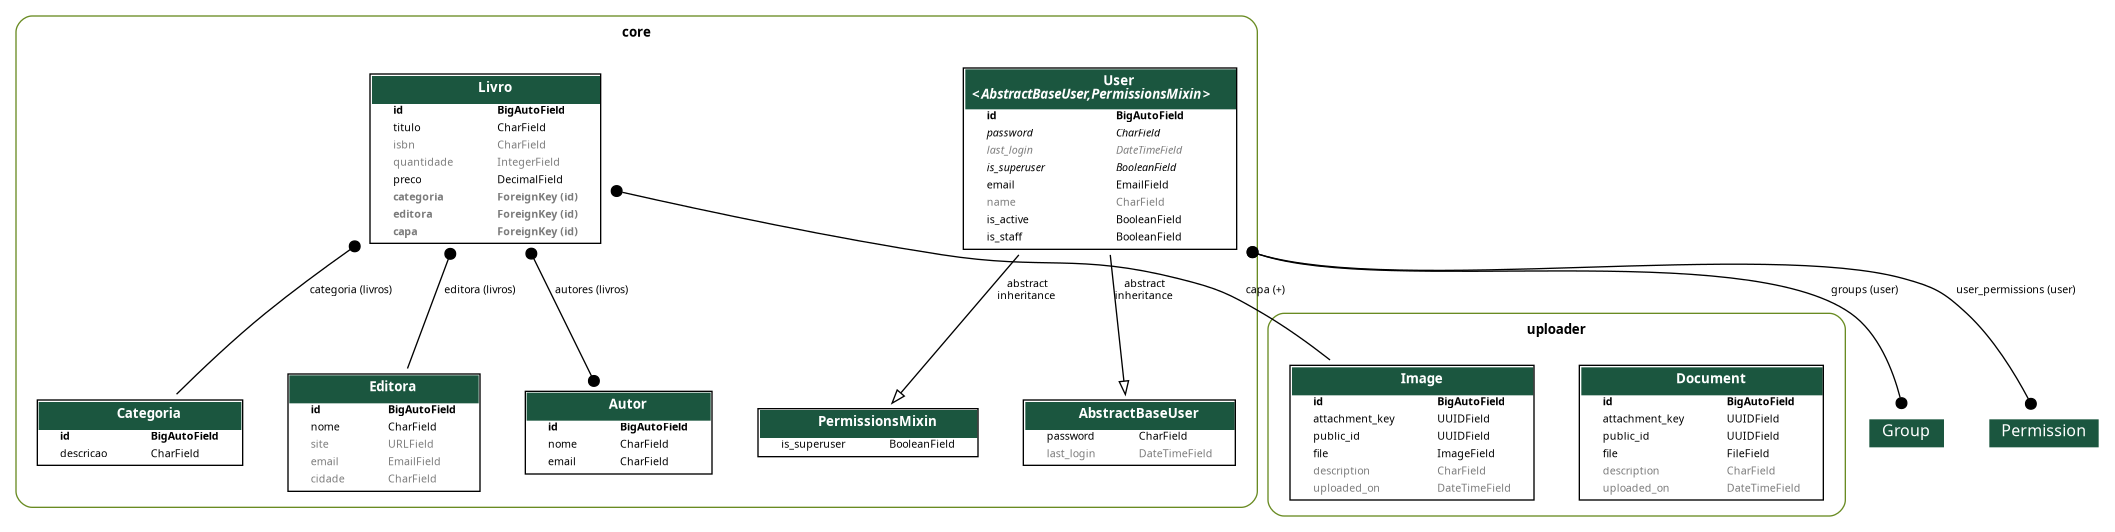
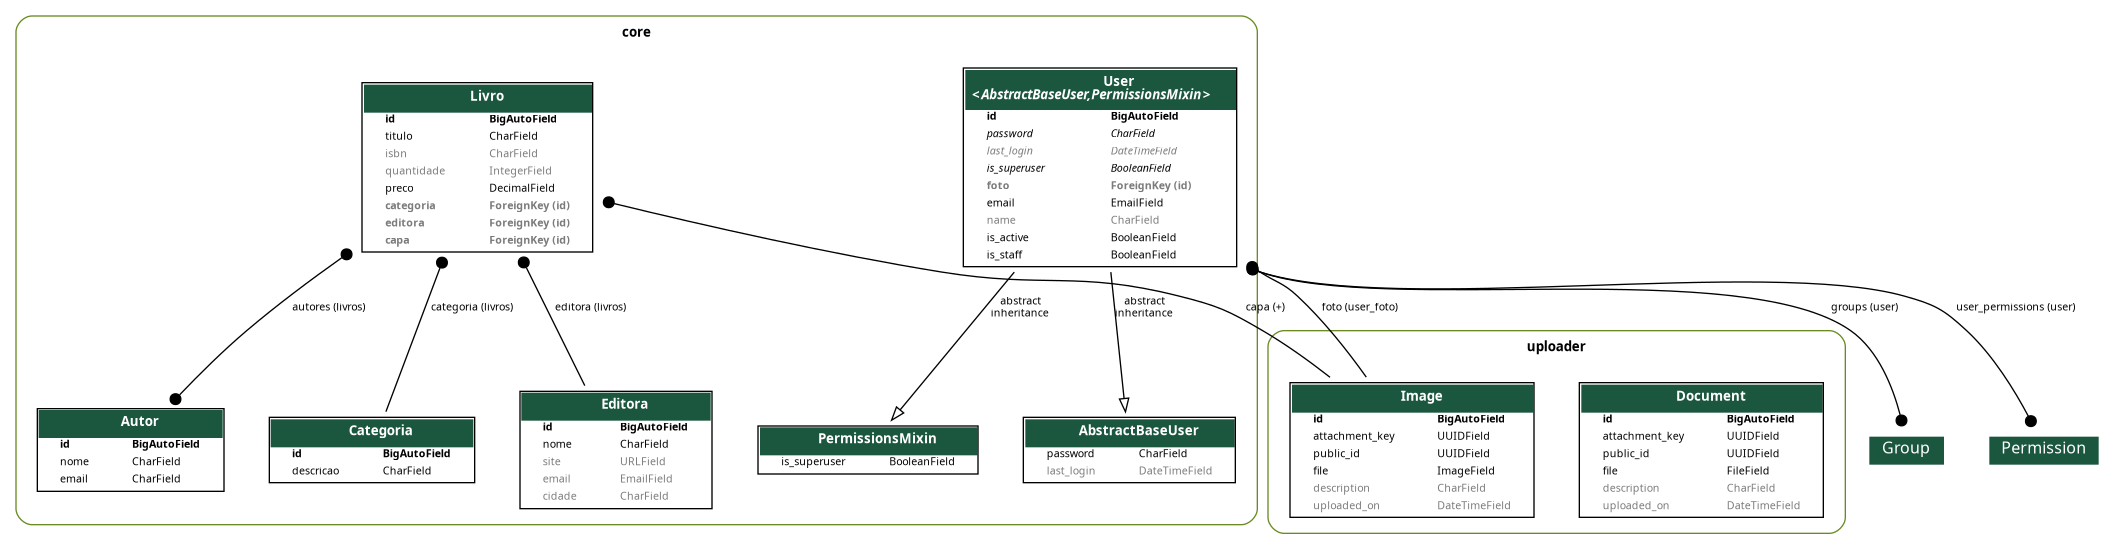
feat: inclusão da foto de perfil no usuário

diff --git a/core/serializers/user.py b/core/serializers/user.py
@@ -1,18 +1,40 @@
-from rest_framework import serializers
-from rest_framework.serializers import ModelSerializer
+from rest_framework.serializers import CharField, ModelSerializer, SlugRelatedField
 
 from core.models import User
+from uploader.models import Image
+from uploader.serializers import ImageSerializer
 
 
 class UserSerializer(ModelSerializer):
+    foto_attachment_key = SlugRelatedField(
+        source='foto',
+        queryset=Image.objects.all(),
+        slug_field='attachment_key',
+        required=False,
+        write_only=True,
+    )
+    foto = ImageSerializer(
+        required=False,
+        read_only=True
+    )
     class Meta:
         model = User
-        fields = ['id', 'email', 'name', 'is_active', 'is_staff', 'is_superuser', 'last_login', 'groups']
+        fields = (
+            'id',
+            'email',
+            'name',
+            'foto',
+            'foto_attachment_key',
+            'is_active',
+            'is_staff',
+            'is_superuser',
+            'last_login',
+            'groups')
         depth = 1
 
 
 class UserRegistrationSerializer(ModelSerializer):
-    password = serializers.CharField(write_only=True, min_length=8)
+    password = CharField(write_only=True, min_length=8)
 
     class Meta:
         model = User

diff --git a/core/migrations/0005_user_foto.py b/core/migrations/0005_user_foto.py
@@ -1,0 +1,20 @@
+# Generated by Django 5.2.13 on 2026-06-16 18:49
+
+import django.db.models.deletion
+from django.db import migrations, models
+
+
+class Migration(migrations.Migration):
+
+    dependencies = [
+        ('core', '0004_editora_cidade_editora_email'),
+        ('uploader', '0001_initial'),
+    ]
+
+    operations = [
+        migrations.AddField(
+            model_name='user',
+            name='foto',
+            field=models.ForeignKey(blank=True, default=None, null=True, on_delete=django.db.models.deletion.SET_NULL, related_name='user_foto', to='uploader.image'),
+        ),
+    ]

diff --git a/core/models/user.py b/core/models/user.py
@@ -9,6 +9,7 @@ from django.contrib.auth.models import (
 )
 from django.db import models
 from django.utils.translation import gettext_lazy as _
+from uploader.models import Image
 
 
 class UserManager(BaseUserManager):
@@ -39,6 +40,16 @@ class UserManager(BaseUserManager):
 
 class User(AbstractBaseUser, PermissionsMixin):
     """User model in the system."""
+     
+    
+    foto = models.ForeignKey(
+        Image,
+        related_name='user_foto',
+        on_delete=models.SET_NULL,
+        null=True,
+        blank=True,
+        default=None,
+    )
 
     email = models.EmailField(max_length=255, unique=True, verbose_name=_('email'), help_text=_('Email'))
     name = models.CharField(max_length=255, blank=True, null=True, verbose_name=_('name'), help_text=_('Username'))
@@ -61,3 +72,5 @@ class User(AbstractBaseUser, PermissionsMixin):
 
         verbose_name = 'Usuário'
         verbose_name_plural = 'Usuários'
+
+        

diff --git a/core/admin.py b/core/admin.py
@@ -18,7 +18,7 @@ class UserAdmin(BaseUserAdmin):
     list_display = ['email', 'name']
     fieldsets = (
         (None, {'fields': ('email', 'password')}),
-        (_('Personal Info'), {'fields': ('name',)}),
+        (_('Personal Info'), {'fields': ('name', 'foto')}),
         (
             _('Permissions'),
             {